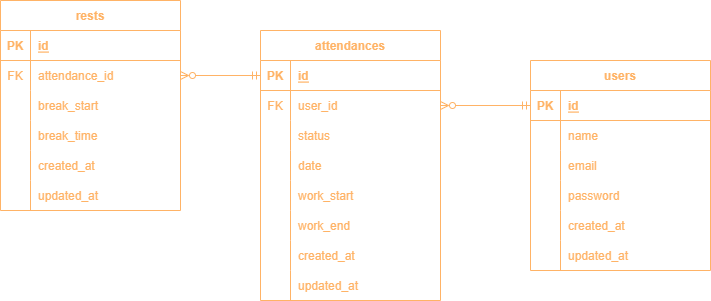
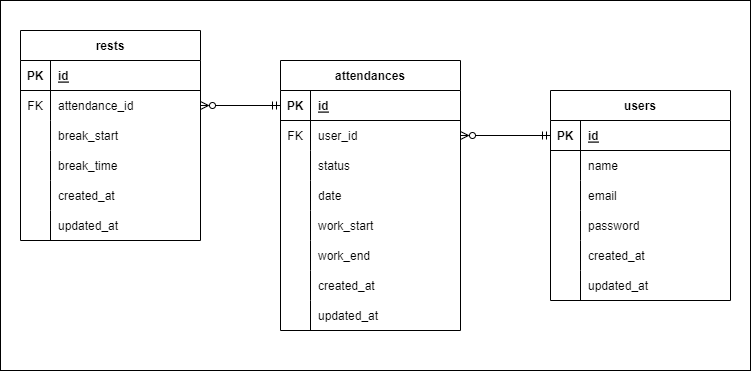
READMEの図を更新

diff --git a/README.md b/README.md
@@ -23,9 +23,9 @@
 
 - RDS を利用せず、EC2 インスタンス内でデータベースを保持
 - 会員登録時のメール認証は mailhog を利用し確認。
-- アプリケーション URL：http://13.208.184.250
-- phpMyAdmin：http://13.208.184.250:8080/
-- mailhog：http://13.208.184.250:8025/
+- アプリケーション URL：http://13.208.166.130
+- phpMyAdmin：http://13.208.166.130:8080/
+- mailhog：http://13.208.166.130:8025/
 
 ### 本番環境
 
@@ -33,8 +33,10 @@
 
 - RDS を利用して、データベースサーバを別建て
 - 会員登録時のメール認証は gmail の smtp サーバを利用。
-- アプリケーション URL：http://13.208.166.130
-- phpMyAdmin：http://13.208.166.130:8080/
+- アプリケーション URL：http://13.208.184.250
+- 管理者 ID  
+   email : admin@admin.com  
+   password : password
 
 ## 他のリポジトリ
 
@@ -52,7 +54,7 @@
 | 休憩開始               | 1 日で何度も休憩が可能                     |
 | 休憩終了               |                                            |
 | 日付別勤怠情報取得     |                                            |
-| ユーザー一覧           |                                            |
+| ユーザーの一覧表示     |                                            |
 | ユーザー別勤怠情報取得 |                                            |
 | ページネーション       | 5 件ずつ取得                               |
 
